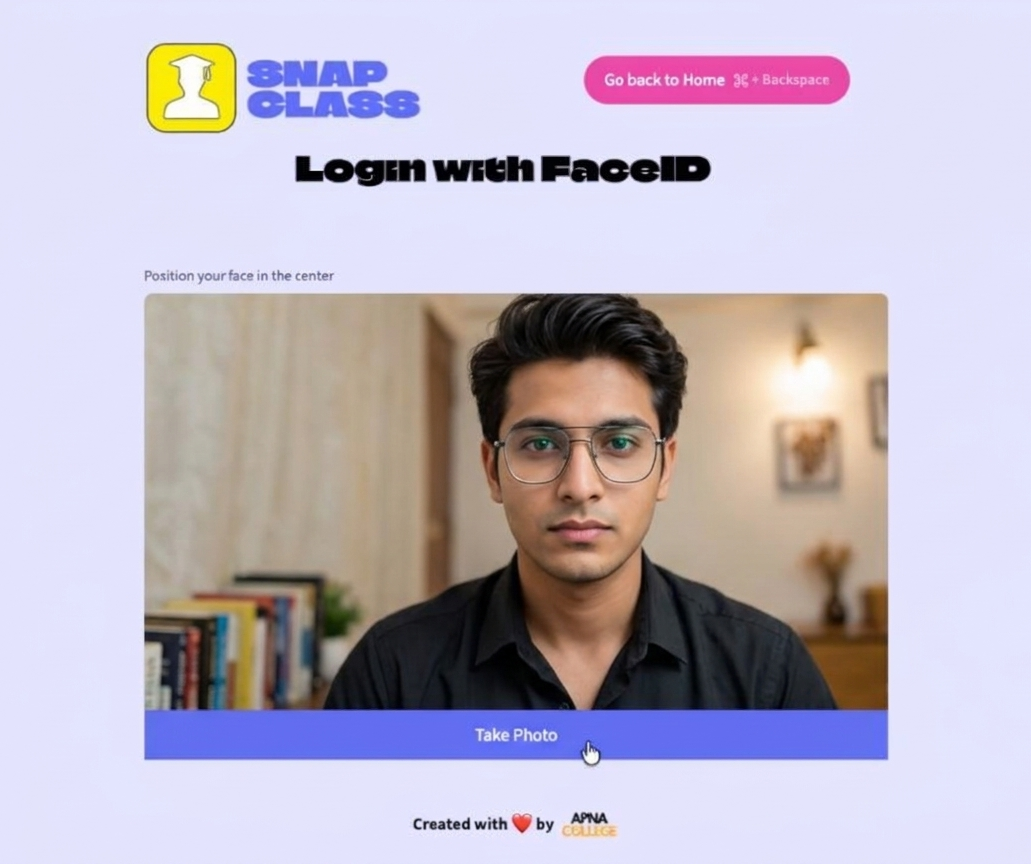
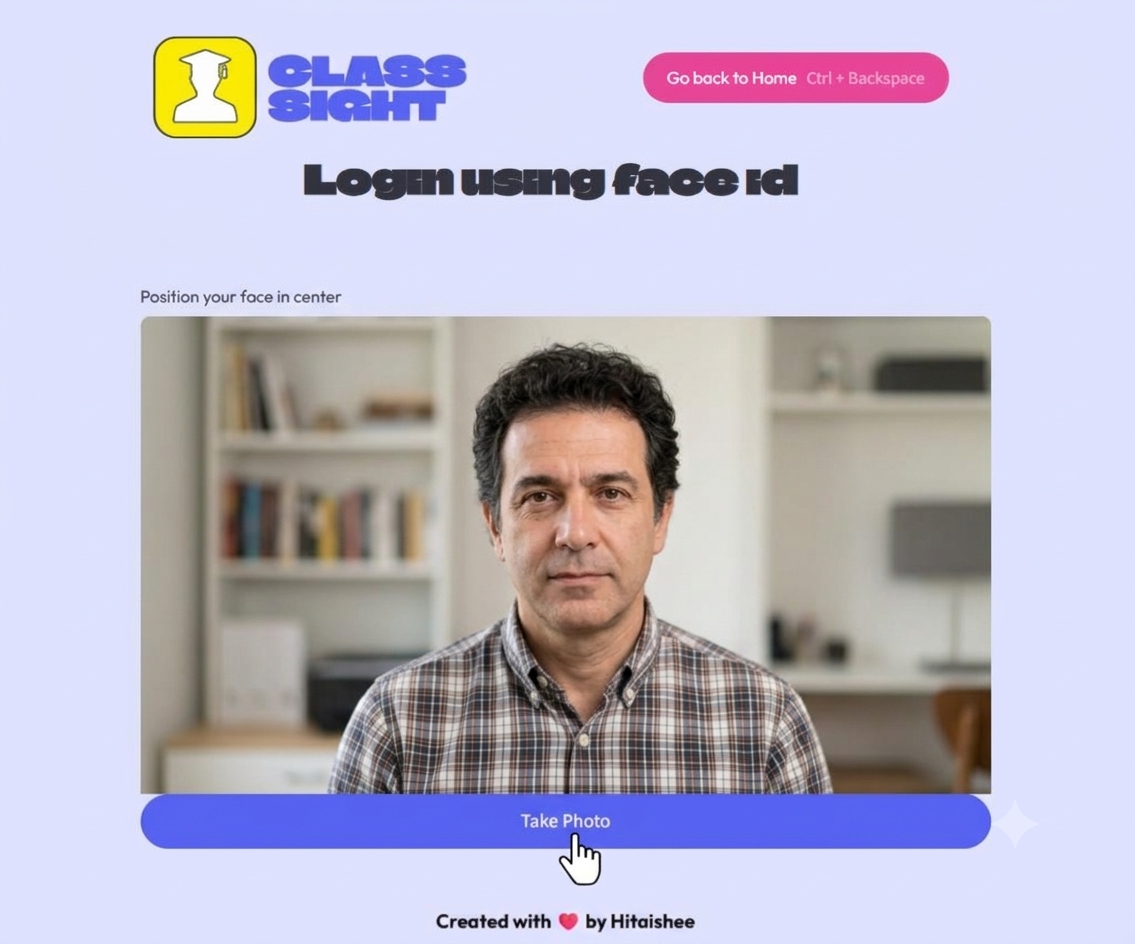
some images alterations

diff --git a/templates/index.html b/templates/index.html
@@ -51,12 +51,12 @@
 
         <div class="floating-card card-left">
             <div class="card-img"><img
-                    src="{{ url_for('static', filename='img/demo/snap-teacher-flow-5.2-photo-attendance.png') }}"
+                    src="{{ url_for('static', filename='img/demo/snap-teacher-flow-5.2-photo-attendance.jpeg') }}"
                     alt="Class Student"></div>
         </div>
 
         <div class="floating-card card-right">
-            <div class="card-img"><img src="{{ url_for('static', filename='img/demo/snap-landing.png') }}"
+            <div class="card-img"><img src="{{ url_for('static', filename='img/demo/snap-landing.jpeg') }}"
                     alt="ClassSight Landing"></div>
         </div>
 
@@ -100,7 +100,7 @@
                         synced across all your devices.</p>
                 </div>
                 <div class="flow-image">
-                    <img src="{{ url_for('static', filename='img/demo/snap-teacher-flow-1-login.png') }}"
+                    <img src="{{ url_for('static', filename='img/demo/snap-teacher-flow-1-login.jpeg') }}"
                         alt="Login Portal">
                 </div>
             </div>
@@ -113,7 +113,7 @@
                         stream.</p>
                 </div>
                 <div class="flow-image">
-                    <img src="{{ url_for('static', filename='img/demo/snap-teacher-flow-2-dashboard.png') }}"
+                    <img src="{{ url_for('static', filename='img/demo/snap-teacher-flow-2-dashboard.jpeg') }}"
                         alt="Teacher Dashboard">
                 </div>
             </div>
@@ -126,7 +126,7 @@
                         start tracking.</p>
                 </div>
                 <div class="flow-image">
-                    <img src="{{ url_for('static', filename='img/demo/snap-teacher-flow-3-create-course.png') }}"
+                    <img src="{{ url_for('static', filename='img/demo/snap-teacher-flow-3-create-course.jpeg') }}"
                         alt="Create Course">
                 </div>
             </div>
@@ -139,7 +139,7 @@
                         single class photo in milliseconds.</p>
                 </div>
                 <div class="flow-image">
-                    <img src="{{ url_for('static', filename='img/demo/snap-teacher-flow-5.2-photo-attendance.png') }}"
+                    <img src="{{ url_for('static', filename='img/demo/snap-teacher-flow-5.2-photo-attendance.jpeg') }}"
                         alt="FaceID Attendance">
                 </div>
             </div>
@@ -165,7 +165,7 @@
                         long-term attendance trends.</p>
                 </div>
                 <div class="flow-image">
-                    <img src="{{ url_for('static', filename='img/demo/snap-teacher-flow-5-see-stored-records.png') }}"
+                    <img src="{{ url_for('static', filename='img/demo/snap-teacher-flow-5-see-stored-records.jpeg') }}"
                         alt="Records Management">
                 </div>
             </div>
@@ -246,7 +246,7 @@
                         all future class sessions.</p>
                 </div>
                 <div class="flow-image">
-                    <img src="{{ url_for('static', filename='img/demo/snap-student-flow-2-enroll.png') }}"
+                    <img src="{{ url_for('static', filename='img/demo/snap-student-flow-2-enroll.jpeg') }}"
                         alt="Biometric Registration">
                 </div>
             </div>
@@ -259,7 +259,7 @@
                         receive real-time updates.</p>
                 </div>
                 <div class="flow-image">
-                    <img src="{{ url_for('static', filename='img/demo/snap-student-flow-3-dashboard.png') }}"
+                    <img src="{{ url_for('static', filename='img/demo/snap-student-flow-3-dashboard.jpeg') }}"
                         alt="Student Dashboard">
                 </div>
             </div>
